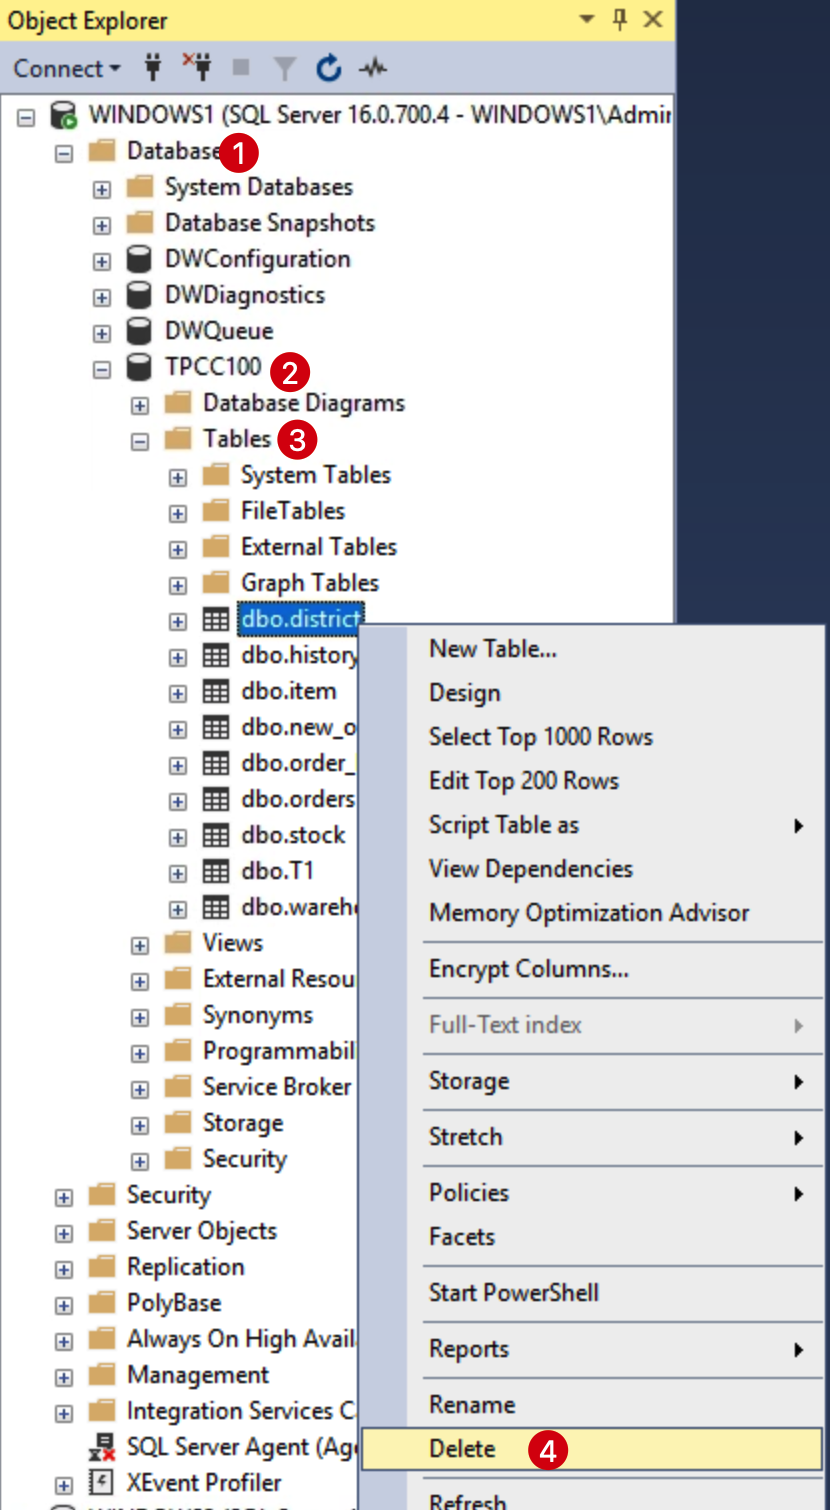
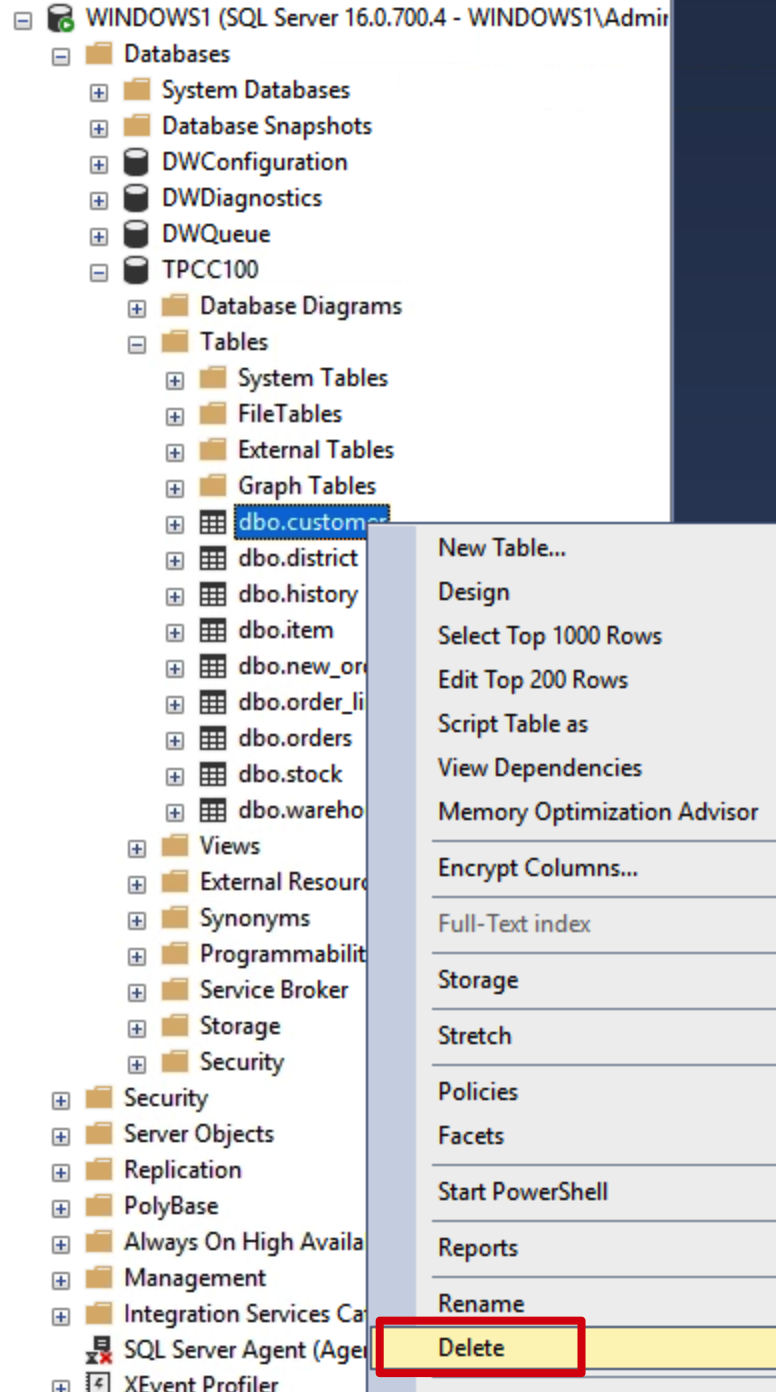
demo 2.2 and 2.3

diff --git a/ModernStoragePlatformsForSqlServer/2-StorageSnapshotsForSqlServer.md b/ModernStoragePlatformsForSqlServer/2-StorageSnapshotsForSqlServer.md
@@ -27,14 +27,14 @@ In this activity, you will take a snapshot of a volume, the D:\ drive, that hold
         <img src=../graphics/m2/2.1.2.png width="50%" height="50%" >
     </p>
 
-    - Once complete, the snapshot will appear in the listing. The volume name is appended but an auto-incrementing integer.
+    - Once complete, the snapshot will appear in the listing. The snapshot name includes the Volume name a dot and is suffixed with an auto-incrementing, unique integer.
 
     <p align="center">
         <img src=../graphics/m2/2.1.3.png width="50%" height="50%" >
     </p>
 
 1. **Delete a Database Table**
-    - Open SSMS, and browse to the TPCC100 database, expand tables and delete the district table by right clicking on the table and clicking Delete. Click OK to conform.
+    - Open SSMS, and browse to the TPCC100 database, expand tables and delete the customer table by right clicking on the table and clicking Delete. Click OK to conform.
 
     <p align="center">
         <img src=../graphics/m2/2.1.4.png width="50%" height="50%" >
@@ -86,55 +86,204 @@ In this activity, you will take a snapshot of a volume, the D:\ drive, that hold
         <img src=../graphics/m2/2.1.10.png width="50%" height="50%" >
     </p>
 
-    - Refresh the table listing, by expanding the database, expanding tables and right clicking on Tables and select Refresh. The district table should now 
+1. **Verify the Restore**
+    - Refresh the table listing, by expanding the database, expanding tables and right clicking on Tables and select Refresh. The customer table should now be in the table listing.
 
     <p align="center">
-        <img src=../graphics/m2/2.1.11.png width="50%" height="50%" >
+        <img src=../graphics/m2/2.1.11.png width="25%" height="25%" >
     </p>
 
+Congratulations, you just restored an entire database in a matter of seconds without having to restore from a backup which can take a little bit longer :P 
+
+---
+
 ## Cloning a snapshot and attaching a database
-But that seems a little heavy handed, let's try cloning the snapshot to a volume and then attaching the database
-- Log into the FlashArray Web Interface
-- Click Storage, Volumes
-- Click the + to create a new volume and enter the name Windows1Vol2, enter 20GB for the size. 
-- Click on that Volume
-- In the Conntected Hosts panel, click the vertical three dots, and in the Available Hosts column, select windows1, and click Connect.
-- Open the Disk Management icon on the desktop.
-- You will now see Disk 2, right click select online, right click again select Initialize, and leave the settings default and click OK.
-- Format the volume - Right click, select New Simple Volume and then click Next, leave the volume size default and click Next, leave the drive letter as E and click next, select 64k for the Allocation Unit Size, and change the Volume label to SQLDATA2, click Next and Finish
-- Right click on Disk 2 and select offline
-- In the FlashArray Web Interface, click Storage, Volumes, and select Windows1Vol1
-- In the volumes Snapshots panel, find the snapshot you created in the activity above, its name will be Windows1Vol1.n where n is a number. Click the vertical three dots and select copy. 
-- For the Name, enter Windows1Vol2. This is the new volume attached to Windows2 that you just initialized and formated. 
-- Click the Overwrite slider to the right.
-- Click Copy. When the warning appears click Overwrite.
-- Back in Disk Management, right click on Disk 2 and online the volume. 
-- Open Windows explorer and browse to E:\ you should see an exact copy of the D:\ volume. 
-- In SSMS, you can attach the databases. Change the name to TPCC100_RESTORE.
-- Now you can use any method you like to get missing table back into the original database TPCC100 and you didn't have to take the original database offline
-- When you're finished, detach the database and set Disk 2 offline in Disk Management
-- Back in the FlashArray Web Interface, click on Storage, Volumes, Windows1Vol2
-- Disconnect the host
-- Destroy the Volume
-- You will still have this volume around for 24 hours, click the drop down Destroyed. You can bring this Volume back if needed.
+But that seems a little heavy handed, let's try cloning the snapshot to another volume and then attaching the database
+
+- **Create a New Volume**
+    - Log into the FlashArray Web Interface, and Click Storage, Volumes.
+
+    - Click the + to create a new volume
+
+        <p align="center">
+            <img src=../graphics/m2/2.2.1.png  >
+        </p>
+
+    - Enter the name Windows1Vol2, enter 20GB for the size. 
+
+        <p align="center">
+            <img src=../graphics/m2/2.2.2.png width="50%" height="50%" >
+        </p>
+
+    - Click on that Volume
+
+        <p align="center">
+            <img src=../graphics/m2/2.2.3.png>
+        </p>
+
+    - In the Conntected Hosts panel, click the vertical three dots, and in the Available Hosts column, select windows1, and click Connect.
+
+        <p align="center">
+            <img src=../graphics/m2/2.2.4.png width="50%" height="50%" > <img src=../graphics/m2/2.2.5.png width="50%" height="50%" >
+        </p>
+
+
+- **Online the Disk and Format the Volume**
+
+    In this section, you will create a new volume, format it with a file system and the offline the volume since it will be replaced with the contents of a snapshot in the next step.
+
+    - Open Disk Management by clicking on the icon on the Desktop.
+        - You will now see Disk 2, right click select online, right click again select Initialize, and leave the settings default and click OK.
+
+        <p align="center">
+            <img src=../graphics/m2/2.2.6.png width="80%" height="80%" >
+        </p>
+
+    - Format the volume
+        - Right click, select New Simple Volume and then click Next.
+
+        <p align="center">
+            <img src=../graphics/m2/2.2.7.png width="80%" height="80%" >
+        </p>
+
+        - Simple volume size in MB: leave default 20462 and click Next, 
+        - Leave the drive letter as E and click Next,
+        - Leave the file system as NTFS, select 64K for the Allocation Unit Size, and change the Volume label to SQLDATA2, leave Perform a quick format checked, then click Next and Finish
+
+    - Offline the volume
+        - Right click on Disk 2 and select offline
+
+
+- **Copy a snapshot to a Volume**
+
+    - In the FlashArray Web Interface, click Storage, Volumes, and select Windows1Vol1
+
+        <p align="center">
+            <img src=../graphics/m2/2.2.8.png>
+        </p>
+
+    - In the volumes Snapshots panel, find the snapshot you created in the activity above, its name will be Windows1Vol1.n where n is a number. Click the elipsis next to that snapshot and click Copy.
+
+        <p align="center">
+            <img src=../graphics/m2/2.2.9.png>
+        </p>
+
+
+    - For the Name, enter Windows1Vol2. This is the new volume attached to Windows2 that you just initialized and formated. Click the Overwrite slider to the right and click Copy.
+
+        <p align="center">
+            <img src=../graphics/m2/2.2.10.png width="50%" height="50%" >
+        </p>
+
+    
+    - When the warning appears click Overwrite.
+
+        <p align="center">
+            <img src=../graphics/m2/2.2.11.png width="50%" height="50%" >
+        </p>
+
+
+- **Online the Disk**
+
+    - Back in Disk Management, right click on Disk 2 and online the volume.  The volume label will no be SQLDATA since is an exact clone from the snapshot
+
+        <p align="center">
+            <img src=../graphics/m2/2.2.12.png width="50%" height="50%" >
+        </p>
+
+    - Open Windows explorer and browse to E:\ you should see an exact copy of the D:\ volume and its contents. In this case, its our database and log files.
+
+        <p align="center">
+            <img src=../graphics/m2/2.2.13.png width="50%" height="50%" >
+        </p>
+
+
+- **Attach the database**
+
+    - In SSMS, you can attach the databases and Change the name to TPCC100_RESTORE.
+
+        <p align="center">
+            <img src=../graphics/m2/2.2.14.png width="50%" height="50%" >
+            <img src=../graphics/m2/2.2.15.png width="50%" height="50%" >
+            <img src=../graphics/m2/2.2.16.png width="50%" height="50%" >
+        </p>
+
+        <p align="center">
+            <img src=../graphics/m2/2.2.17.png width="50%" height="50%" >
+        </p>
+
+    - Now you can use any method you like to get missing customer table back into the original database TPCC100 and you didn't have to take the original database offline
+
+---
 
 # 2.2 - Clone a database to another instance of SQL Server
 In this activity, you will clone a volume to a new instance of SQL Server. You can then attach the database on the target instance. Saving the need to backup and restore the database.
 
-- Log into the Window2 virtual machine and launch Disk Management on the desktop.
-- Offline Disk 2
-- Back on Windows1, open the FlashArray Web Interface, and click on Storage, Volumes, Windows1Vol1.
-- In the volumes Snapshots panel, find the snapshot you created in the activity above, its name will be Windows1Vol1.n where n is a number. Click the vertical three dots and select copy. 
-- For the Name, enter Windows2Vol1, and move the Overwrite slider to the right. Click Copy. When the warning appears click Overwrite.
-- Back on Window2, in disk management, online Disk 2.
-- Right Click on the Volume, click open, you should now see the database files for TPCC100 from the clone of Windows1.
-- Back on Windows1, in SSMS, connect to Windows2, and attache the databases
-- Once complete, in SSMS on Windows1 detach the database, and on Windows2, offline the volume. This step is needed for the next demo
+- **Offline the Disk on Windows2**
+
+    - Log into the Window2 virtual machine and launch Disk Management on the desktop.
+    - Offline Disk 1
+
+        <p align="center">
+            <img src=../graphics/m2/2.3.1.png width="80%" height="80%" >
+        </p>
+
+- **Clone Windows1Vol1 Snapshot to the Volume attached to Windows2**
+
+    - Back on Windows1, open the FlashArray Web Interface, and click on Storage, Volumes, Windows1Vol1.
+
+        <p align="center">
+            <img src=../graphics/m2/2.3.2.png>
+        </p>
+
+    - In the volumes Snapshots panel, find the snapshot you created in the first activity in this module, its name will be Windows1Vol1.n where n is a number. Click the vertical elipsis and select Copy. 
+
+        <p align="center">
+            <img src=../graphics/m2/2.3.3.png width="50%" height="50%" >
+        </p>
+
+    - For the Name, enter Windows2Vol1, and move the Overwrite slider to the right. Click Copy. When the warning appears click Overwrite.
+    
+        <p align="center">
+            <img src=../graphics/m2/2.3.4.png width="50%" height="50%" >
+        </p>
+
+- **Online the disk**    
+    - Back on Window2, in disk management, online Disk 1.
+    - Open Windows Explorer and browe to D:\, you should now see the database files for TPCC100 from the clone of Windows1.
+
+- **Attach the database**
+
+    - Back on Windows1, in SSMS, connect to Windows2.
+    
+        <p align="center">
+            <img src=../graphics/m2/2.3.5.png width="50%" height="50%" >
+        </p>
+
+    - Attach the database files from D:\ with the name TPCC100.
+
+        <p align="center">
+            <img src=../graphics/m2/2.3.7.png width="50%" height="50%" >
+            <img src=../graphics/m2/2.3.7.png width="50%" height="50%" >
+            <img src=../graphics/m2/2.3.8.png width="50%" height="50%" >
+        </p>
+
+This this demo, you copied, nearly instantaneosuly a 10GB database between two instances of SQL Server. 
+
+---
 
 # 2.3 - Seed an Availability Group from an array-based snapshot
 In this activity, you will build an Availability Group from Snapshot.
 
 ## Set up the databases
+
+- **Detach the database and offlne the disk**
+ Once complete, in SSMS on Windows1 detach the database, and on Windows2, offline the volume. This step is needed for the next demo.
+
+        <p align="center">
+            <img src=../graphics/m2/2.3.9.png width="50%" height="50%" >
+        </p>
+
 
 - On Windows1, in SSMS, open a New Query Window and enter `ALTER DATABASE TPCC100 SET SUSPEND_FOR_SNAPSHOT_BACKUP = ON`
 - In the FlashArray Web Interface, create a snapshot of Windows1Vol1

diff --git a/ModernStoragePlatformsForSqlServer/1-StorageFundamentalsForDBAs.md b/ModernStoragePlatformsForSqlServer/1-StorageFundamentalsForDBAs.md
@@ -110,6 +110,8 @@ In the [`demos/m1`](./demos/m1/) folder, run the script [`workload.cmd`](./demos
 
 - On the desktop, launch **SQL Server Management Studio (SSMS)** by clicking on the icon
 
+- ADD STEP TO CONNECT SQL TO WINDOWS1
+
 <p align="center">
     <img src=../graphics/m1/1.3.1.png  width="90" height="100" >
 </p>
